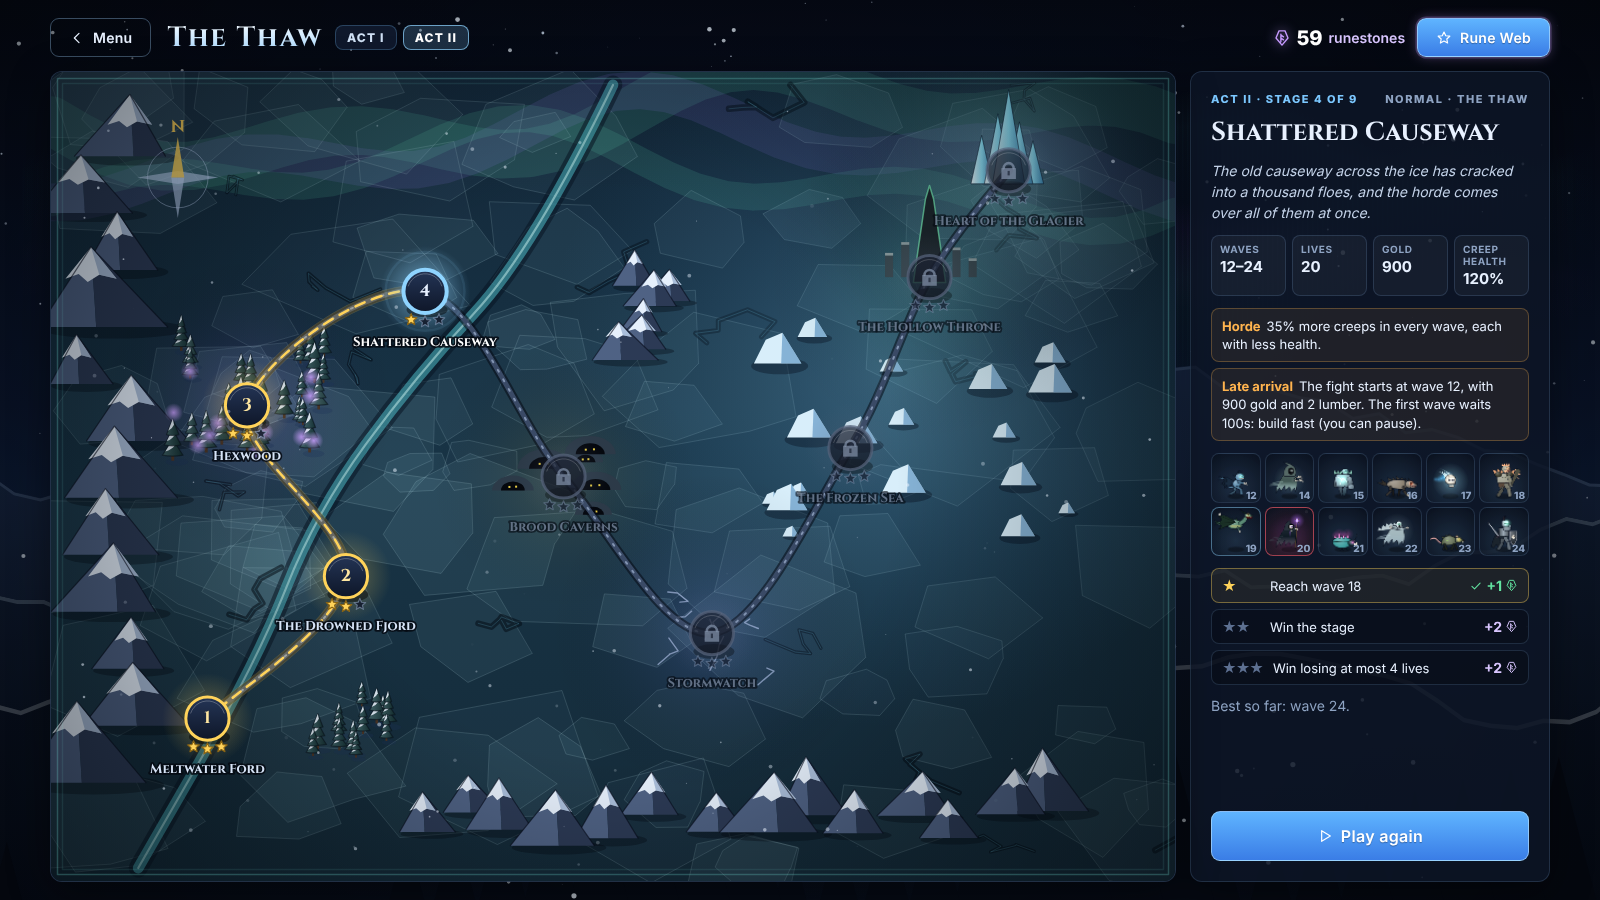
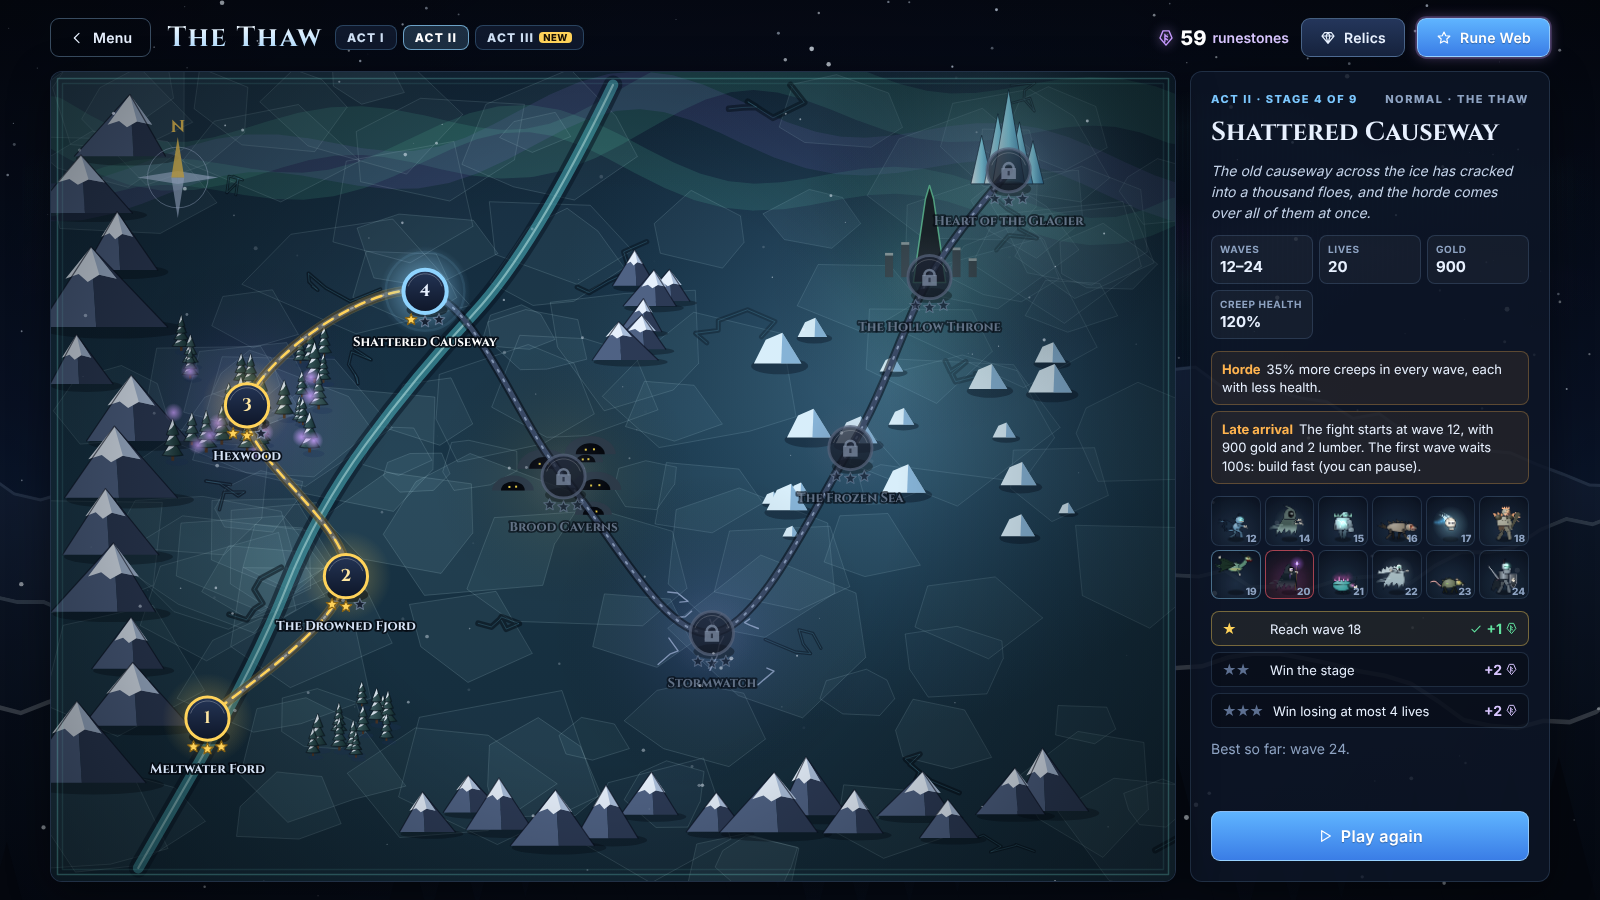
Docs, screenshots and polish for weather, omens, relics and Act III
README and design notes drop spells and the daily challenge and describe
weather and omens, relics, moving progress and Act III, with new
screenshots (a blizzard, a shrine's offer, relics, the Act II map). The
shrine's dialog fits its three cards; blizzards are a little thicker; the
replay test takes boons, proving saved games repeat shrine choices.

Claude-Session: https://claude.ai/code/session_01MFSvMXGEAFbWFXg1LVZD2Q

Changed region(s): [[0.75, 0.2489, 0.9688, 0.84], [0.7188, 0.0, 0.875, 0.0622], [0.3125, 0.0311, 0.375, 0.0622]]

diff --git a/tests/replay.test.ts b/tests/replay.test.ts
@@ -44,6 +44,9 @@ function playLive(seed: number, ticks: number, opts: { setup?: GameCommand[]; al
     game.drainEvents();
     // a few things a person would do between steps
     if (game.tick % 997 === 0) game.command(0, { c: 'ready', value: true });
+    // and the shrine's last boon, a little after it is offered
+    const omen = game.player(0)!.omen;
+    if (omen && game.tick % 61 === 0) game.command(0, { c: 'omen', pick: omen[omen.length - 1] });
     if (game.tick % 1499 === 0) {
       const mine = [...game.towers.values()].filter((t) => t.owner === 0).map((t) => t.id);
       game.command(0, { c: 'target', ids: mine.slice(0, 3), mode: 'strong' });
@@ -66,6 +69,8 @@ describe('saved games', () => {
     const live = playLive(42, 20 * 60 * 8);
     expect(live.game.wave).toBeGreaterThan(4);
     expect(live.entries.length).toBeGreaterThan(20);
+    // shrines came and boons were taken, through commands the replay repeats
+    expect(live.game.player(0)!.boons.length).toBeGreaterThan(0);
     const game = replayed(live, 42);
     expect(game.tick).toBe(live.game.tick);
     expect(fingerprint(game)).toBe(fingerprint(live.game));

diff --git a/src/client/game/dialogs.ts b/src/client/game/dialogs.ts
@@ -299,7 +299,7 @@ export function openOmenPicker(view: GameView, onClose: () => void): ModalHandle
       have.length ? h('div', { class: 'omen-have muted' }, `Your boons: ${have.join(', ')}`) : null,
       h('div', { class: 'field-row', style: { justifyContent: 'flex-end', marginTop: '12px' } }, h('button', { class: 'btn ghost', onclick: () => modal.close() }, 'Decide later')),
     ),
-    { onClose, soft: true },
+    { onClose, soft: true, narrow: true },
   );
   return modal;
 }

diff --git a/src/client/styles.css b/src/client/styles.css
@@ -3794,9 +3794,6 @@ kbd {
   }
 }
 
-.omen {
-  max-width: 640px;
-}
 
 .omen-kicker {
   font-size: 11px;
@@ -3812,7 +3809,7 @@ kbd {
 
 .omen-cards {
   display: grid;
-  grid-template-columns: repeat(auto-fit, minmax(min(100%, 170px), 1fr));
+  grid-template-columns: repeat(auto-fit, minmax(min(100%, 130px), 1fr));
   gap: 10px;
   margin-top: 12px;
 }

diff --git a/src/client/game/renderer.ts b/src/client/game/renderer.ts
@@ -857,7 +857,7 @@ export class Renderer {
     }
     const b = this.wx.blizzard;
     if (b > 0) {
-      ctx.fillStyle = `rgba(225,238,255,${0.12 * b})`;
+      ctx.fillStyle = `rgba(225,238,255,${0.2 * b})`;
       ctx.fillRect(0, 0, w, h);
     }
   }

diff --git a/README.md b/README.md
@@ -3,8 +3,9 @@
 **A co-op maze tower defense for the browser, in the spirit of the Warcraft III map *Wintermaul*.**
 Up to 8 players, no login, 12 races and 96 towers, two sets of 40 waves and their final bosses. Build a
 maze on an open snowfield: whatever slips through your maze runs straight into your neighbour's. Alone?
-Play the tutorial, a 21-stage campaign in two acts with a passive tree in the spirit of Path of Exile, the
-daily challenge or a quick skirmish, all running right in your browser, on a computer or a phone.
+Play the tutorial, a 29-stage campaign in three acts with a passive tree in the spirit of Path of Exile, or
+a quick skirmish, all running right in your browser, on a computer or a phone. Every wave has its weather,
+every fifth a shrine offers you a boon, and every achievement wins a relic to carry into battle.
 
 Version **2.0.0** · [Changelog](CHANGELOG.md)
 
@@ -38,9 +39,8 @@ npm run dev           # then open http://localhost:5173
 | Mode | What it is |
 |---|---|
 | **Tutorial** | One click from the menu. An 8-wave game where a coach explains one idea at a time (walls, zig-zags, calling waves, upgrades, air, leaks, lumber) and waits for you to try it. |
-| **Campaign** | Two acts, *The Long Winter* and *The Thaw*: 21 stages on two painted maps, each with its own twist, three stars to earn and runestones for the Rune Web. |
-| **Daily** | One game a day, the same for everyone: the date picks the seed, the waves, a war chest and a twist or two. Bronze, Silver and Gold medals and a play streak. |
-| **Skirmish** | A solo game with your rules: difficulty, Classic waves or The Thaw, forty waves or endless. |
+| **Campaign** | Three acts, *The Long Winter*, *The Thaw* and *The Long Night*: 29 stages on three painted maps, each with its own twist, three stars to earn and runestones for the Rune Web. |
+| **Skirmish** | A solo game with your rules: difficulty, Classic waves or The Thaw, weather and omens, forty waves or endless. |
 | **Multiplayer** | 1–8 players in a room, with bots to fill seats. The first player picks the rules, like Red in the original. |
 
 Single-player games are simulated in your browser: press **P** to pause (they also pause when you switch
@@ -57,12 +57,21 @@ dig in and can't be hit, **blinkers** jump ahead along the path, **brood mothers
 faster as they bleed, and **hexers** freeze your towers solid for a few seconds. Some waves mix two kinds
 of creep. The wave preview names every trick a wave has.
 
-### Commander spells
+### Weather and omens
 
-Every player has three spells on their own cooldowns, cast on any lane with **1**, **2**, **3** (or the
-Spells panel): **Frost Nova** freezes the creeps in an area (bosses are slowed), **Meteor** lands a second
-later and hits everything around it hard, and **War Cry** makes your towers in a wide area attack 40%
-faster for eight seconds. The rules dialog can switch spells off for a purist game.
+![Weather](docs/images/weather.png)
+
+Every wave has a **forecast**, shown in the wave bar and the preview of the next waves. **Blizzards**
+shorten every tower's reach and slow the creeps, **auroras** feed Magic, Elemental and Pure damage,
+**freezing fog** makes slows linger but towers sluggish, a **warm wind** speeds the creeps and feeds poison
+and fire, and a **blood moon** brings tougher creeps that pay much more. Plan the maze and the next race
+around what is coming.
+
+After every fifth wave a **wayside shrine** offers you three of twenty **boons** (The Smith's Ember, Cold
+Iron, Raven's Tithe, Blood Price, The Long Night…), some with a price. Take one and it stays with you for
+the rest of the game, so no two games build the same way. Both can be switched off in the rules dialog.
+
+![A wayside shrine](docs/images/omens.png)
 
 ### On a phone or tablet
 
@@ -89,8 +98,12 @@ stars:
 3. win **losing at most a few lives**.
 
 Stars pay **runestones**. Win a stage to open the next; win *The Drowned Mill* to open **Act II, The
-Thaw**, nine stages on the glacier against the creeps that fight back. Win *The Iron Pass* to open **The
-Endless Frontier**, which pays a runestone every 5 waves past wave 20 the first time you get there.
+Thaw**, nine stages on the glacier against the creeps that fight back, and *Hexwood* to open **Act III,
+The Long Night**: eight stages under the polar night where the weather is the enemy (a pass that is one
+long blizzard, a vale of endless aurora, a night of blood moons, a fog sea), the shrines come more often,
+or the land gives you only sixty towers. Win *The Iron Pass* to open **The Endless Frontier**, which pays a
+runestone every 5 waves past wave 20 the first time you get there. All three acts together pay for the
+whole Rune Web.
 
 ### The Rune Web
 
@@ -115,23 +128,23 @@ up what you have taken, and giving a node back is free (right-click it, or *Give
 long as nothing else hangs on it. In multiplayer the host can switch **Campaign talents** on in the lobby (off
 by default), and everyone brings the passives they took.
 
-### The daily challenge
+### Relics and achievements
 
-![Daily challenge](docs/images/daily.png)
+![Relics](docs/images/relics.png)
 
-The **Daily** tile opens today's challenge: a stretch of fifteen waves from one of the two wave sets, a
-war chest to start with, sometimes Hard, and one or two twists (Swift, Mending, Iron hides, Horde,
-Plunder, Six races, Lean times). **Bronze** for reaching a wave, **Silver** for winning, **Gold** for
-winning while losing at most three lives. Play every day to keep your streak; the briefing shows the last
-week. It pays no runestones: it is for the medal.
+Twenty-nine achievements, from killing your first boss to a 300-cell maze, six boons in one game, every
+star of the campaign or a win on Brutal. **Every achievement wins a relic**: a keepsake with a small
+bonus, sometimes with a price (*Tyrant's Tooth*: +20% damage against bosses; *Heart of Winter*: +15%
+damage, but leaks cost double; *Shrine Bell*: shrines offer four boons). Carry one into your games, two
+once you have twelve achievements: in the campaign, in skirmish, and online when the host allows campaign
+talents. Games where developer commands were used earn nothing.
 
-### Achievements
+### Moving your progress
 
-![Achievements](docs/images/achievements.png)
-
-Thirty-three achievements, from killing your first boss to a 300-cell maze, a Gold medal, every star of the
-campaign or a win on Brutal. They are kept with your campaign progress and announced the moment you earn
-them. Games where developer commands were used earn nothing.
+**Move progress** on the menu shows your whole save (campaign, Rune Web, relics, achievements and the game
+in progress) as one code. Copy it, or save it as a file, and load it on your other device: it shows both
+saves side by side before replacing anything, and keeps the achievements of both. As a claude.ai
+artifact, progress also follows you between devices on its own.
 
 ## How to play
 
@@ -162,7 +175,7 @@ them. Games where developer commands were used earn nothing.
 | Wheel, arrows, right- or middle-drag | Zoom and move the camera |
 | Space | Jump back to your lane |
 | G | Ready / call the next wave early |
-| 1 2 3 | Aim Frost Nova, Meteor or War Cry; click to cast |
+| O | Open the shrine's offer (after every fifth wave) |
 | P / F | Pause / game speed (single player) |
 | Alt + click | Ping the map for your team |
 | Enter | Chat (`-random`, `-ready`, `-help`) |
@@ -179,7 +192,7 @@ them. Games where developer commands were used earn nothing.
 - **Authoritative multiplayer**: Node + WebSocket server simulating at 20 Hz, 10 Hz snapshots,
   client-side interpolation, reconnect-by-token, spectators, lobby with public and private rooms.
 - **All art is procedural**: canvas drawing code for the towers (a building style per race), the
-  creature shapes, the terrain, the emblems and the two campaign maps. All sound is synthesized with
+  creature shapes, the terrain, the emblems and the three campaign maps. All sound is synthesized with
   WebAudio, music included: pads, bells and wind, with drums when a wave is on and a darker turn for
   bosses. No third-party assets.
 - **Saves are replays.** A single-player game is saved as its seed and the commands you gave; Continue
@@ -191,9 +204,9 @@ src/shared/sim/      the simulation: game (state, commands, waves), horde (creep
                      talent bonuses, bots, and the real-time runner
 src/server/          HTTP + WebSocket server, rooms and lobby
 src/client/          menu and lobby, local single-player games and saves, music
-src/client/modes/    tutorial, skirmish and the daily challenge
+src/client/modes/    tutorial and skirmish
 src/client/game/     game view: renderer, HUD, dialogs, effects, input
-src/client/campaign/ campaign maps, briefings, the Rune Web, progress and achievements
+src/client/campaign/ campaign maps, briefings, the Rune Web, progress, achievements, save transfer
 src/client/art/      procedural towers (a kit per race), creatures, terrain
 scripts/             balance runners, determinism fingerprint, browser tests, README screenshots
 tests/               unit tests (vitest)
@@ -211,7 +224,6 @@ docs/                research notes, design, hosting guide
 | `node scripts/mobile-test.mjs` | Plays the tutorial on an emulated phone with touch input |
 | `npm run balance -- --players 2 --games 6` | Headless bot games for balancing |
 | `npm run balance:campaign` | Plays every campaign stage with bots holding typical talents |
-| `npm run balance:daily` | Plays bots on a run of daily challenges and prints the medals |
 | `node scripts/resume-test.mjs` | Saves a game mid-wave, reloads and checks it continues identically |
 | `npm run fingerprint` | Hashes seeded bot games: a refactor that changes nothing leaves it identical |
 | `WINTERWARD_DEV=1 npm start` | Testing chat commands: `-gold 5000`, `-wave 20`, `-speed 4`, `-lumber 1`, `-autopilot` |

diff --git a/docs/DESIGN.md b/docs/DESIGN.md
@@ -91,12 +91,29 @@ bots, a Thaw game goes about as far as a classic one (solo average wave ~32, duo
 - **Pings** (Alt+click), in-game chat with old-school `-commands`.
 - **Bots** that build real mazes, for solo play or to fill seats.
 - **Endless mode** after wave 40.
-- **Commander spells**: Frost Nova, Meteor and War Cry (`src/shared/sim/spells.ts`), each on its own
-  cooldown (45, 55 and 60 s), cast on any lane. Nova freezes creeps for 2.5 s (bosses are slowed,
-  immune creeps ignore it); Meteor lands a second later for half a typical creep's health of this wave
-  (bosses take 30%); War Cry makes your towers in a wide circle attack 40% faster for 8 s. They are a
-  way to rescue a leak, not a damage source: a tower does more over a wave. A rules option turns them
-  off; bots never cast them.
+
+## Weather and omens
+
+Two systems make one game unlike the next (`src/shared/sim/omens.ts`); both are rules options, on by
+default and off in the tutorial.
+
+- **Weather.** Every wave has a forecast: still air (most often), blizzard (−15% tower range, creeps
+  10% slower), aurora (+25% Magic, Elemental and Pure damage), freezing fog (slows last twice as long,
+  towers 10% slower), warm wind (creeps 12% faster, poison and burns +35%) or blood moon (creeps +20%
+  health, +40% kill gold). The first three waves are calm and the same storm never comes twice in a
+  row. The forecast is a pure function of the seed and the wave, so clients show the next waves'
+  weather without being told and replays agree. Weather is in force while its wave runs.
+- **Omens.** After every fifth wave (before the last) a shrine offers each player three of twenty
+  boons, drawn from the seed; lasting boons are never offered twice. A boon is talent-style bonuses,
+  something given at once (gold that scales with the wave, lives, lumber), or both, and some have a
+  price (*Blood Price*: +14% damage, leaks cost half again). An offer can wait; a new shrine settles
+  an unanswered one with its first boon. Bots take theirs at once.
+- A player's bonuses are now their own (talents and relics) plus boons plus weather, recomputed when
+  any of them changes and sent to clients as an event, so tooltips and range circles stay right.
+
+Stacked boons are strong: with a full set and campaign talents, bots won stages they used to lose.
+Each boon was cut to about two thirds; solo bots on Normal now average wave ~36 with both systems
+on against ~35 without, and a person choosing boons well does better.
 
 ## Single player
 
@@ -108,34 +125,35 @@ client clock keeps in step, and a hidden tab pauses the game.
 - **Tutorial**: a real 8-wave Emberforge game (20 lives, a long first countdown) with a coach that
   shows one idea at a time, highlights the cells or buttons involved and moves on when the player has
   done it. A player who follows along wins with a few leaks; one who stops building loses.
-- **Skirmish**: a solo game with the classic rules dialog.
+- **Skirmish**: a solo game with the rules dialog, carrying the player's relics.
 - **Saved games.** A single-player game is saved as its seed and the commands given, with the tick of
   each (`src/client/saved.ts`). Continue builds a new game on the same seed and replays the commands
   (`src/shared/sim/replay.ts`); since the simulation is deterministic it lands on the same state,
   then shows it paused. The save is written every few seconds and when the tab is hidden or closed, and
   a save from another version of the game is not offered. Developer commands make a game unsaveable.
-- **Daily challenge** (`src/shared/daily.ts`): the date, hashed, seeds a random generator that picks
-  the wave set, a first wave from a short list (1 to 24), fifteen waves from there, a war chest of
-  about nine tenths of what a player would have built up by then, 10% more creep health, sometimes
-  Hard, and one or two twists. Medals: Bronze for reaching nine waves in, Silver for winning, Gold for
-  winning losing at most three lives. `npm run balance:daily` plays bots over a run of days; over 40
-  days they earned no medal 13 times, Bronze 10, Silver 15 and Gold twice.
-- **Achievements**: 33 of them, kept with the campaign save. Some follow from the save (stars, the
-  web, medals, career totals: a hook on every save checks them); the rest are watched for during a
-  game by a tracker that reads the event stream and the player's state, in multiplayer too.
+- **Achievements and relics**: 29 achievements, kept with the campaign save. Some follow from the
+  save (stars, the web, career totals: a hook on every save checks them); the rest are watched for
+  during a game by a tracker that reads the event stream and the player's state, in multiplayer too.
+  Each wins a relic (`src/shared/relics.ts`): small bonuses, some with a price, applied like talents.
+  One slot, two at twelve achievements. Saved games remember the relics they started with; online,
+  relics come along with campaign talents when the host allows them.
+- **Moving progress**: the whole save as a code, base64 JSON with a checksum so a truncated copy is
+  refused (`src/client/campaign/transfer.ts`). Loading keeps the achievements of both devices.
 
 ## The campaign
 
-The campaign is two acts on two painted maps (`src/shared/campaign.ts`): *The Long Winter*, twelve
-stages on the road north, and *The Thaw*, nine stages on the glacier with the second wave set, which
-opens once *The Drowned Mill* is won. Each stage is a rule set for the ordinary game. The rules can
+The campaign is three acts on three painted maps (`src/shared/campaign.ts`): *The Long Winter*, twelve
+stages on the road north; *The Thaw*, nine stages on the glacier with the second wave set, which opens
+once *The Drowned Mill* is won; and *The Long Night*, eight stages under the polar night, open once
+*Hexwood* is won, built on the new rules: forced weather on every wave, shrines every second to fourth
+wave, and a tower cap. Each stage is a rule set for the ordinary game. The rules can
 change the first and last wave, lives, starting gold and lumber, creep health, speed, armor and
 regeneration, the number of creeps per wave, bounty, and the races that can be picked. Late stages
 drop the player into the war (wave 15, 20, 30…) with a war chest and a long first countdown, which
 makes them a different puzzle: build a whole maze at once.
 
 Three stars per stage: reach a wave, win, win losing at most a few lives. Stars pay **runestones**,
-174 in all; winning a stage opens the next. The Endless Frontier (open after *The Iron Pass*) pays one
+174 in the first two acts (most of the 192-node web) and 205 with Act III; winning a stage opens the next. The Endless Frontier (open after *The Iron Pass*) pays one
 runestone per 5 waves past wave 20 the first time they are reached, a long tail for players who want
 more of the web.
 
@@ -185,14 +203,16 @@ Latest results, 8 games per stage with random race pairs:
 | 11 The Rimewall | 6/8 | the Winter Tyrant; losses at wave 40 | | | |
 | 12 Throne of Winter | 6/8 | all 40 waves on Brutal | | | |
 
-Bots cast no spells and follow a fixed maze plan, so a person should do better; the last stages of
+Act III, 6 games per stage: Last Light 6/6, Whiteout Pass 6/6, Pilgrims' Road 5/6, The Last Cairns
+6/6 (bots never hit the cap's hardest choices), Aurora Vale 5/6, Night of the Red Moon 6/6, The Fog Sea
+5/6, The Long Night 5/6. Bots pick boons blindly and follow a fixed maze plan, so a person should do better; the last stages of
 each act are meant to take a few tries.
 
 ## Code architecture
 
 - `src/shared/sim/game.ts` holds the state, the commands and the wave flow; `horde.ts` moves, heals,
   leaks and kills creeps and runs their abilities; `combat.ts` does targeting, attacks, damage and
-  on-hit effects; `spells.ts` the commander spells; `entities.ts` has the plain data types. The
+  on-hit effects; `omens.ts` weather and boons; `entities.ts` has the plain data types. The
   simulation is deterministic for a given seed, which is what saved games rely on.
 - `npm run fingerprint` plays seeded bot games (with and without talents and stage rules) and hashes
   every event. A refactor that must not change behaviour has to leave its output identical; the split

diff --git a/CHANGELOG.md b/CHANGELOG.md
@@ -4,6 +4,34 @@ All notable changes to Winterward. The format follows [Keep a Changelog](https:/
 and the project uses [Semantic Versioning](https://semver.org/): the major number changes when saves or the
 network protocol break, the minor number for new features, the patch number for fixes and balance.
 
+## [3.0.0] - 2026-11-09
+
+### Added
+- **Weather**: every wave has a forecast, shown in the wave bar and the preview of the next waves, that
+  bends the rules while it runs: blizzards (shorter tower range, slower creeps), auroras (+25% Magic,
+  Elemental and Pure), freezing fog (lingering slows, slower towers), a warm wind (faster creeps, stronger
+  poison and fire) and blood moons (tougher creeps that pay much more), each with its own look.
+- **Omens**: after every fifth wave a wayside shrine offers each player three of twenty boons; take one and
+  it lasts the game. Some have a price. The offer can wait (the Shrine button, or O).
+- **Campaign Act III, The Long Night**: eight stages under the polar night on a new map, open once
+  *Hexwood* is won: a pass that is one long blizzard, a road of shrines, a land with only sixty stones to
+  build with, a vale of endless aurora, a night of blood moons, a fog sea, and forty waves of every weather
+  at the end. With it the three acts pay for the whole Rune Web.
+- **Relics**: every achievement wins a relic, a keepsake with a small bonus (some with a price). Carry one
+  into your games, two once you have twelve achievements: campaign, skirmish, and online when the host
+  allows campaign talents. Three new achievements (Shrine Keeper, Weathered, Dawn) and their relics.
+- **Move progress**: your whole save as a code (or a file) to load on another device. A code cut short is
+  refused, both saves are shown before anything is replaced, and the achievements of both are kept.
+
+### Changed
+- The rules dialog has Weather and Omens switches (both on by default; off in the tutorial).
+- The achievements screen is now Relics & achievements; the campaign screen has a Relics button.
+- The lobby option is now *Campaign talents and relics*.
+
+### Removed
+- Commander spells (Frost Nova, Meteor, War Cry).
+- The daily challenge, with its medals, streak and achievements.
+
 ## [2.0.0] - 2026-11-09
 
 ### Added
